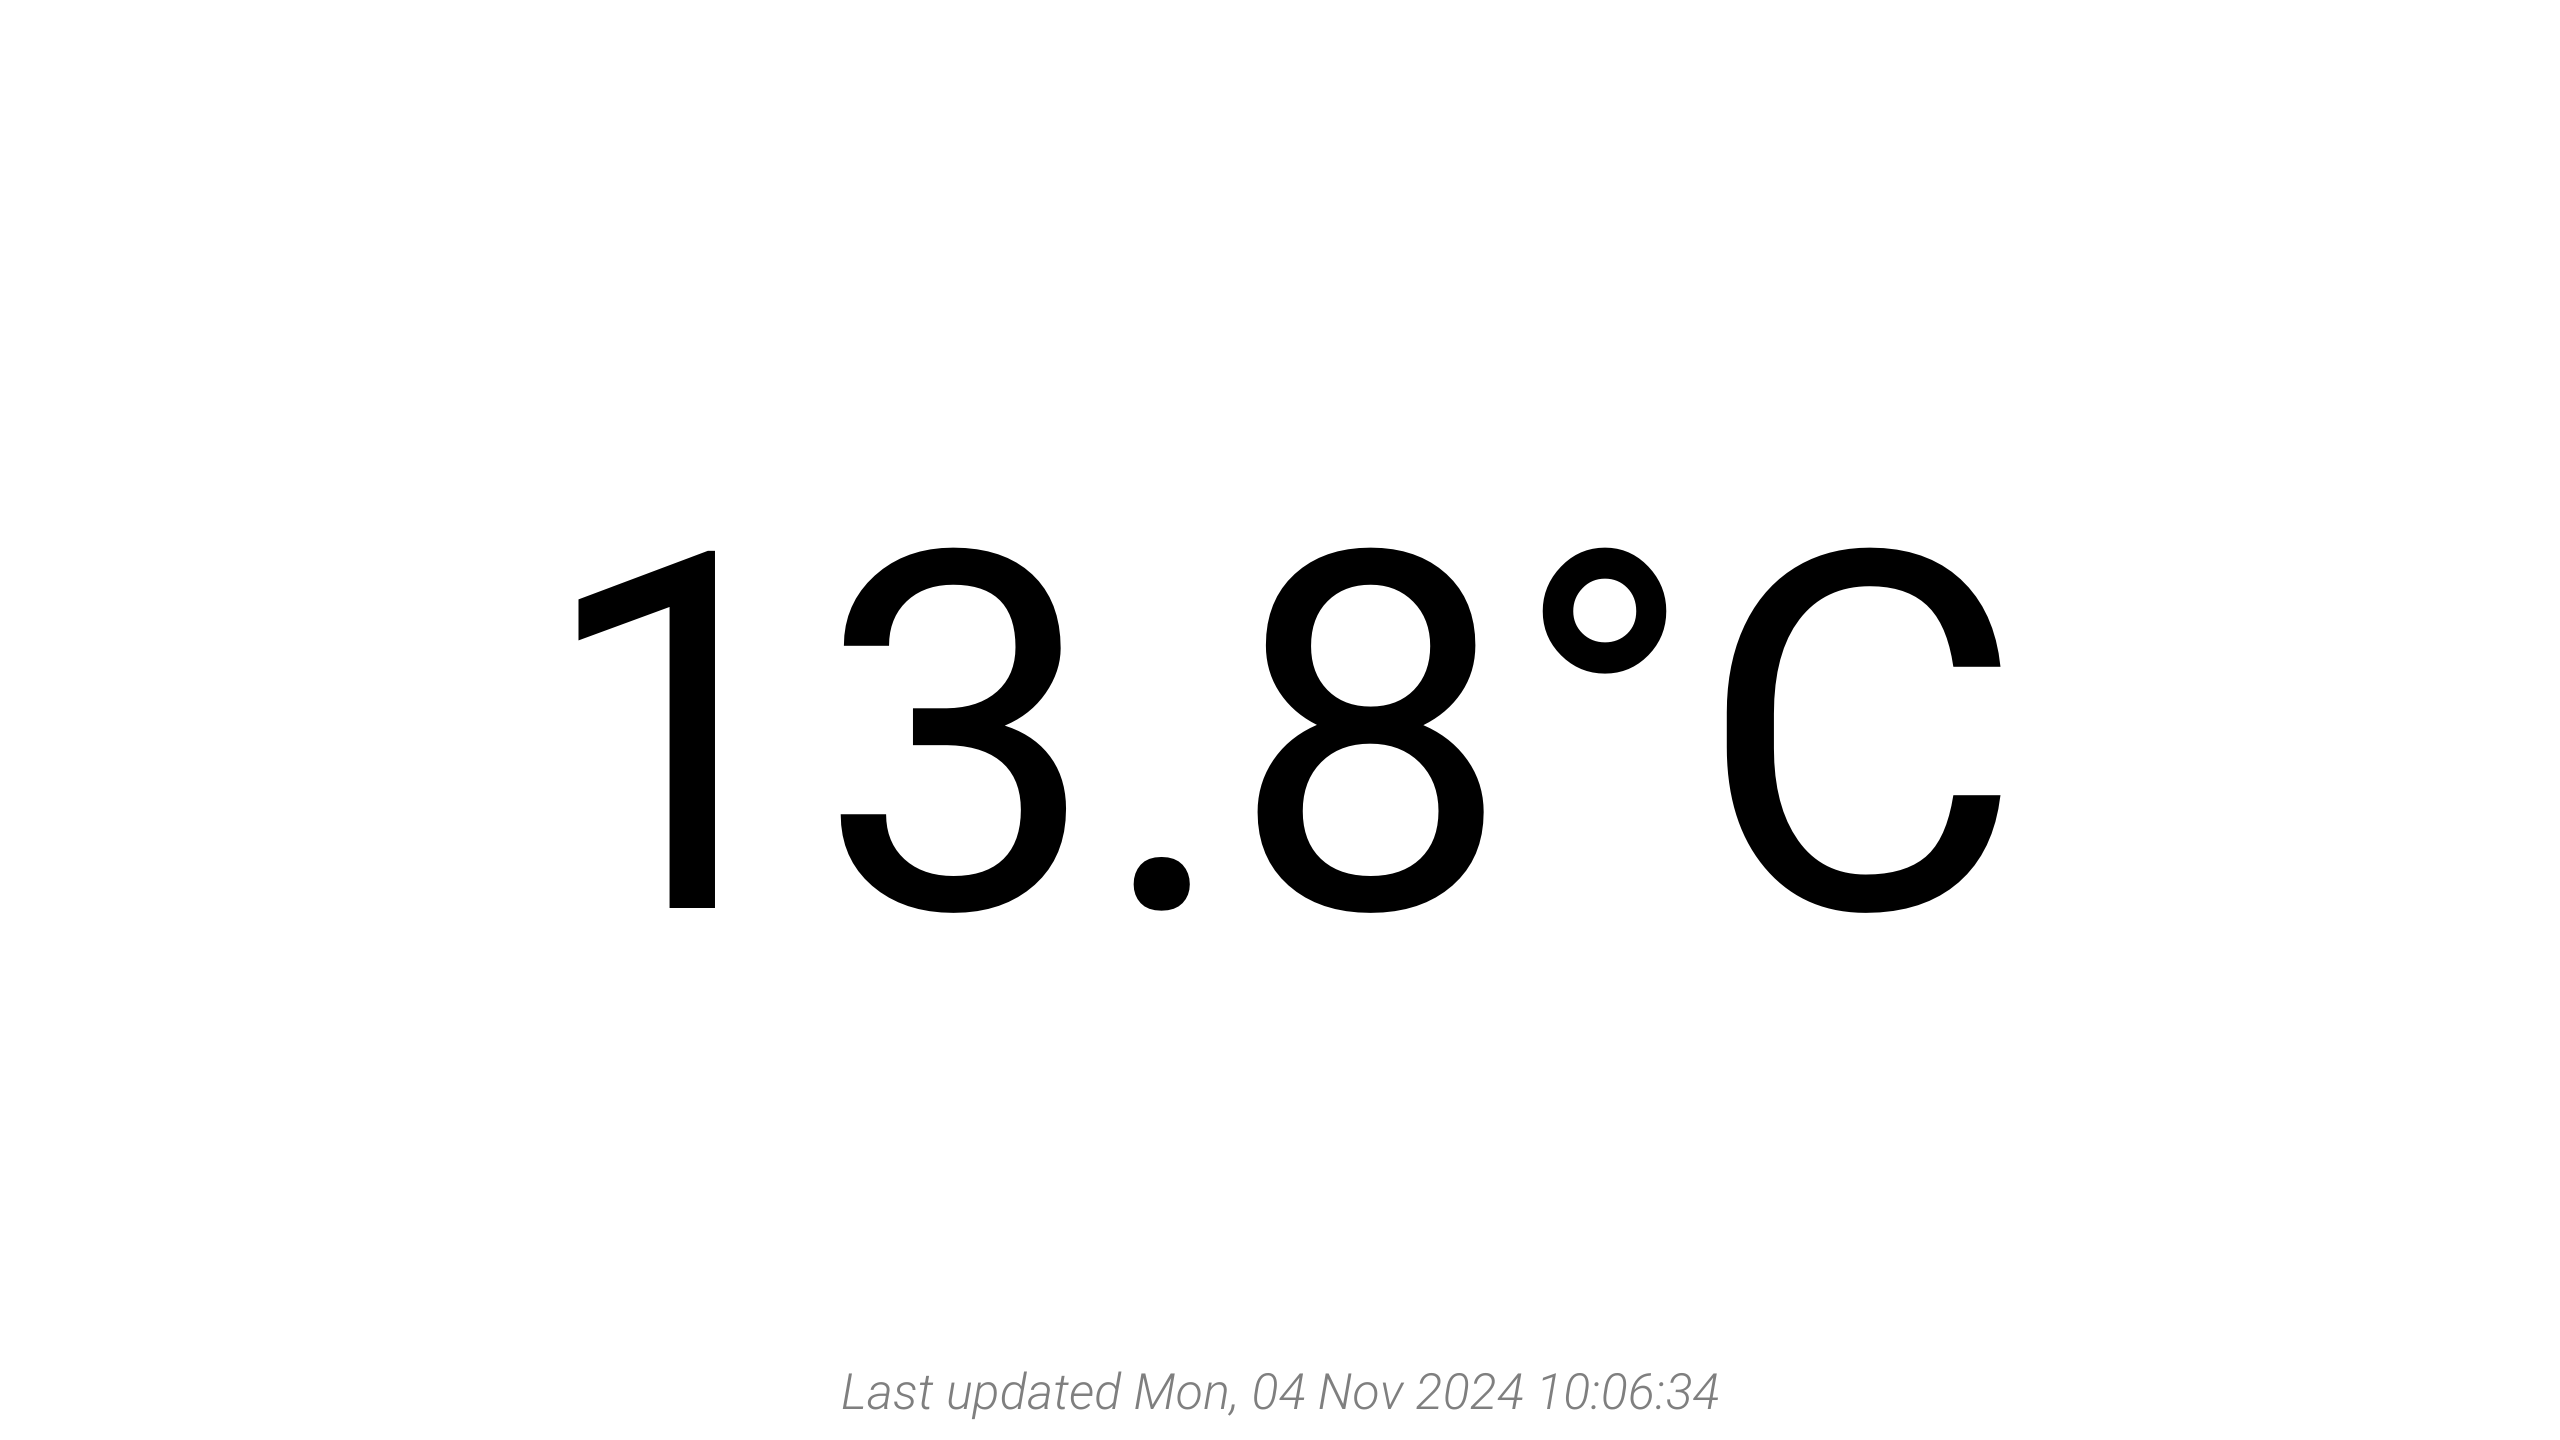
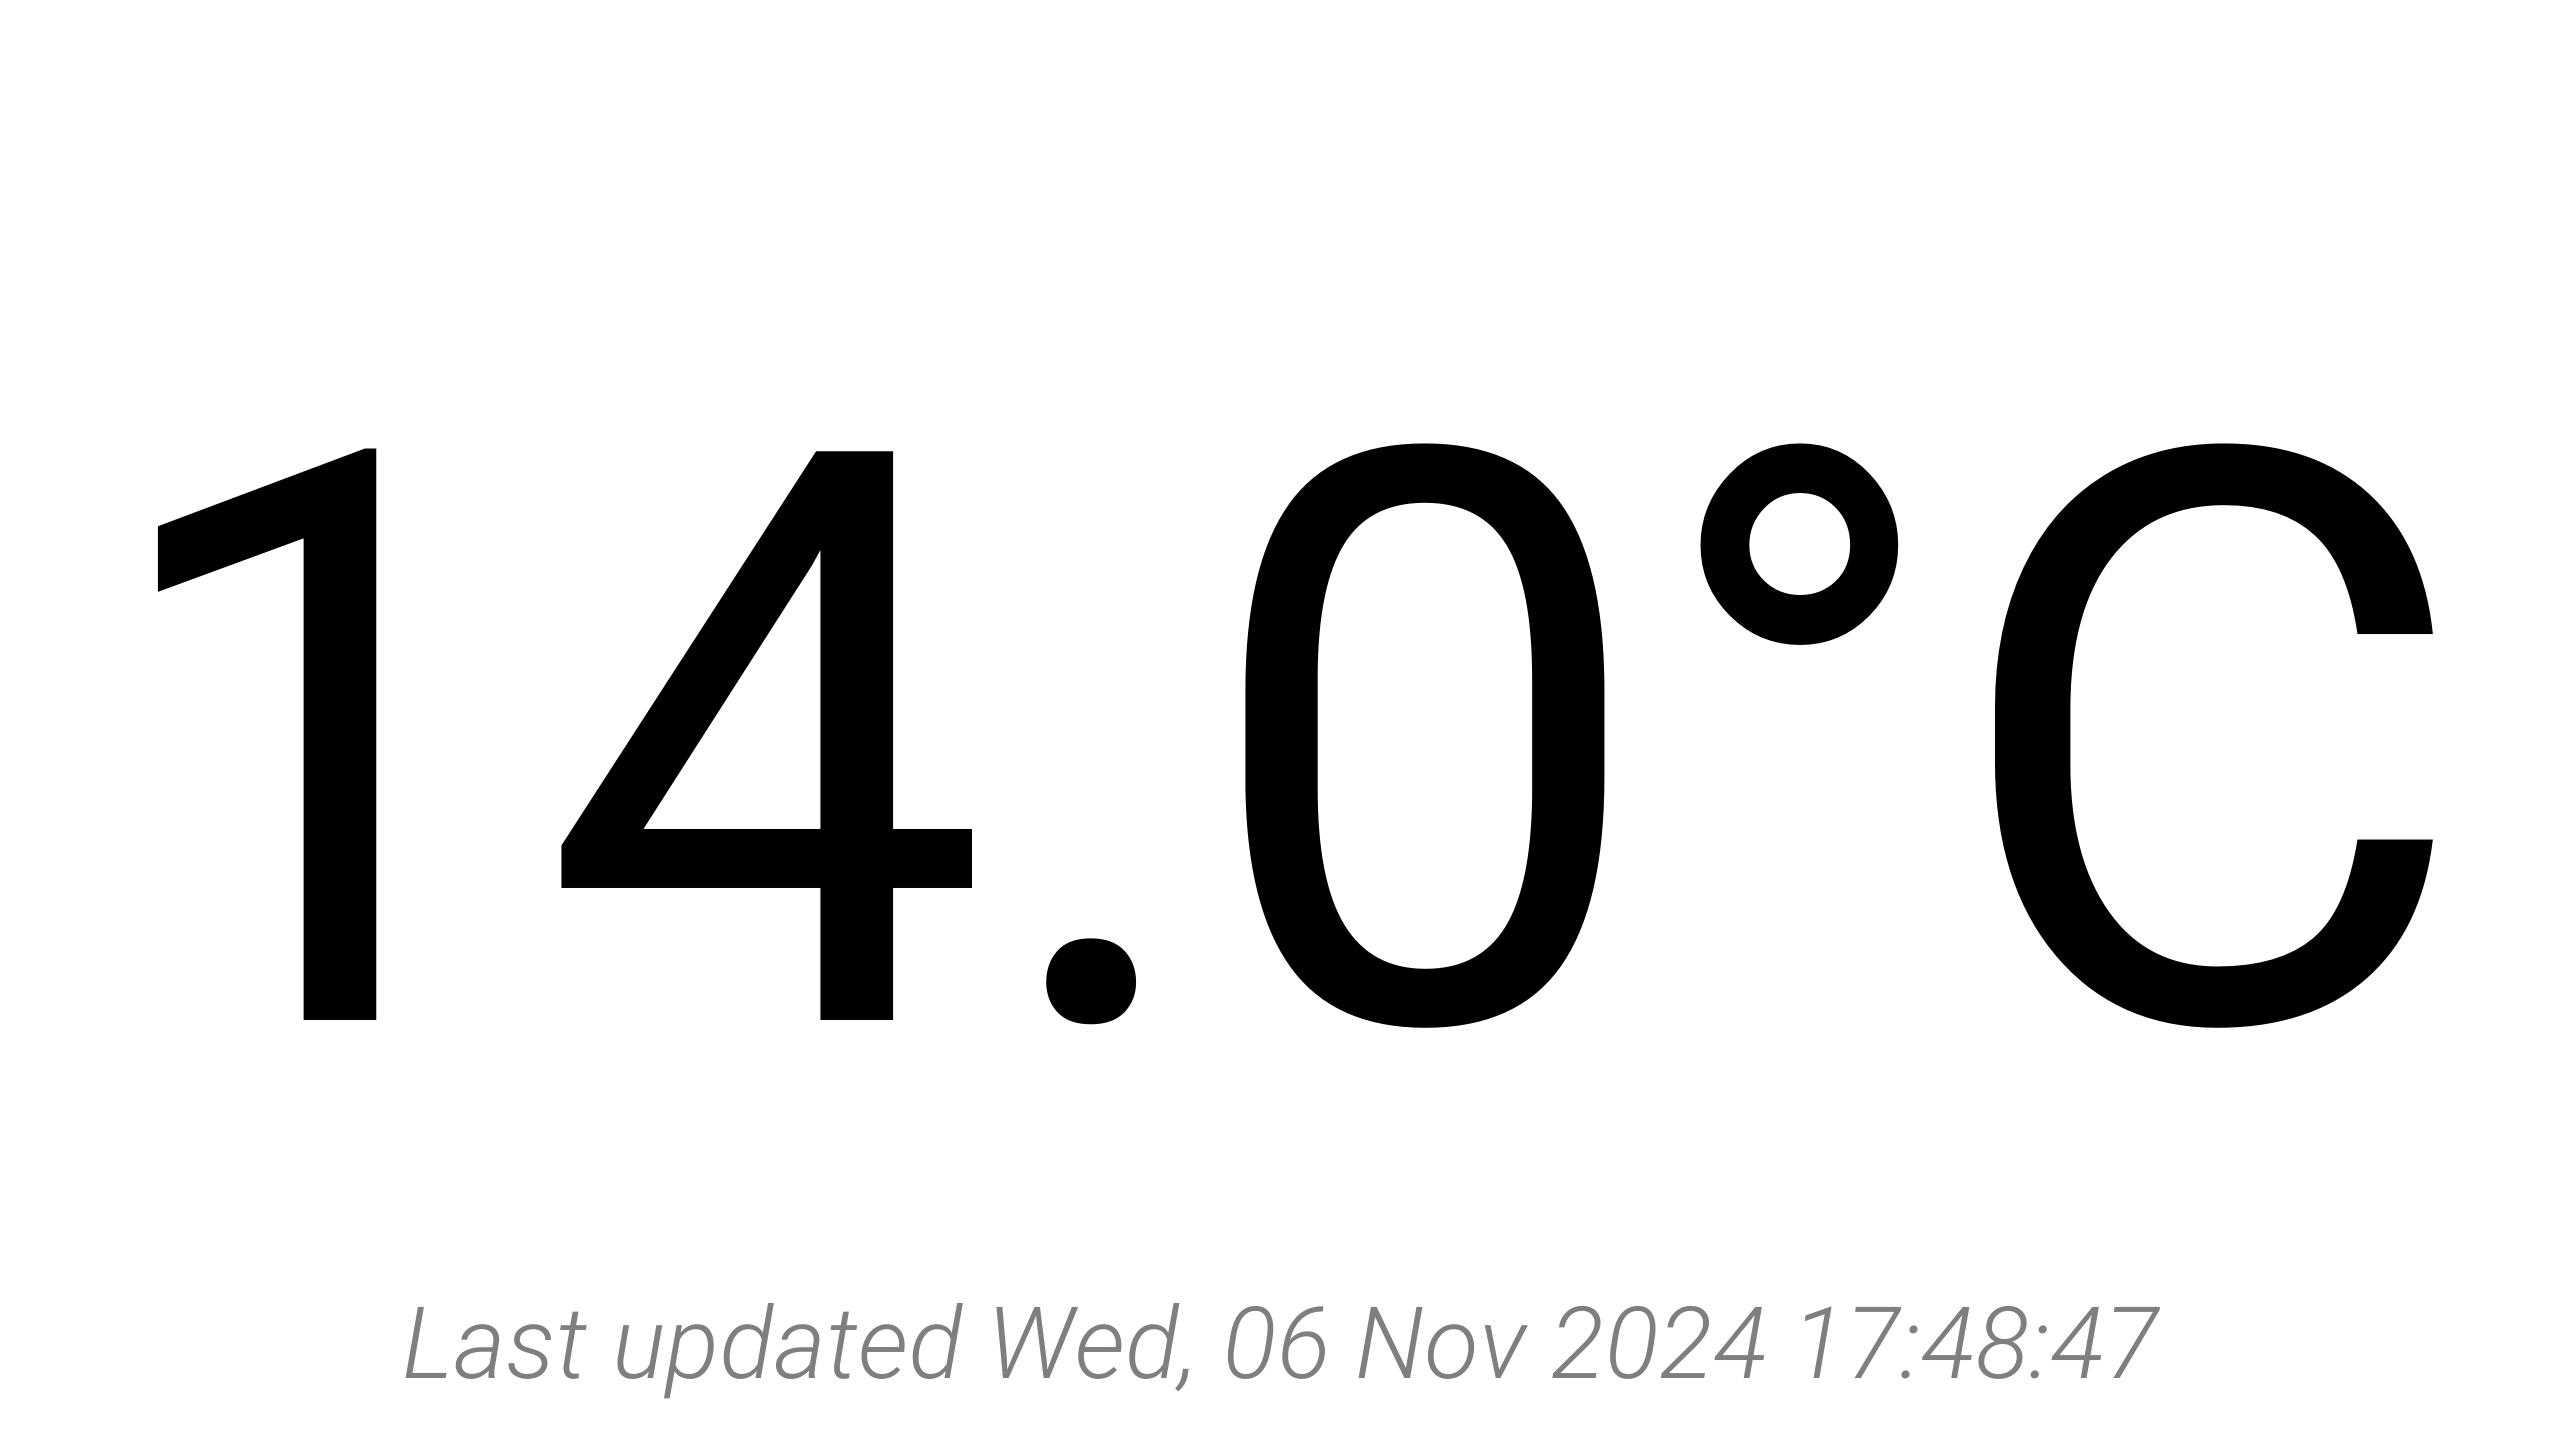
Modify font sizes and position in display output
Increase font size for temperature and last updated display to enhance readability. Adjust the position of the last updated text for better visual alignment.

diff --git a/display.go b/display.go
@@ -79,7 +79,7 @@ func (d *Display) generateImage(temperature, lastModified string) (image.Image, 
 
 	// Temperature display
 	dc.SetRGB(0, 0, 0)
-	if err := dc.LoadFontFace("fonts/Roboto-Regular.ttf", 500); err != nil {
+	if err := dc.LoadFontFace("fonts/Roboto-Regular.ttf", 800); err != nil {
 		slog.Error("unable to load font: ", "error", err)
 		return nil, err
 	}
@@ -87,11 +87,11 @@ func (d *Display) generateImage(temperature, lastModified string) (image.Image, 
 
 	// Last updated
 	dc.SetRGB(0.5, 0.5, 0.5)
-	if err := dc.LoadFontFace("fonts/Roboto-LightItalic.ttf", 50); err != nil {
+	if err := dc.LoadFontFace("fonts/Roboto-LightItalic.ttf", 100); err != nil {
 		slog.Error("unable to load font: ", "error", err)
 		return nil, err
 	}
-	dc.DrawStringAnchored("Last updated "+lastModified, float64(d.width)/2, float64(d.height)-50, 0.5, 0.5)
+	dc.DrawStringAnchored("Last updated "+lastModified, float64(d.width)/2, float64(d.height)-100, 0.5, 0.5)
 
 	return dc.Image(), nil
 }
